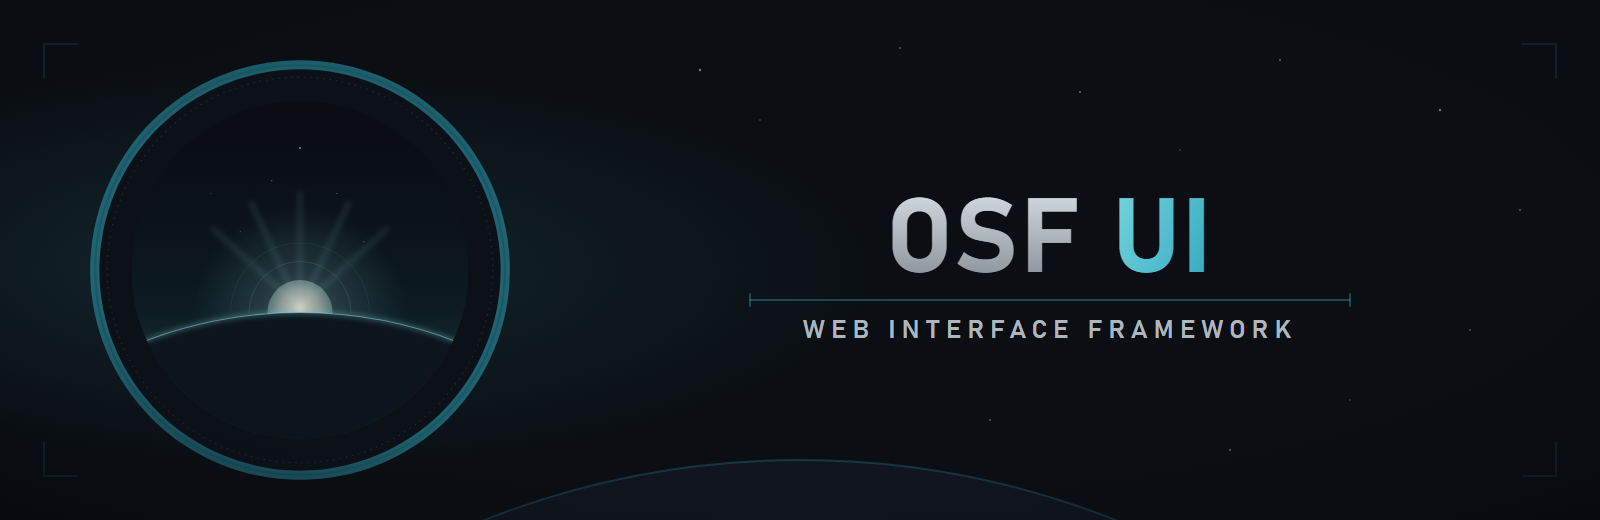
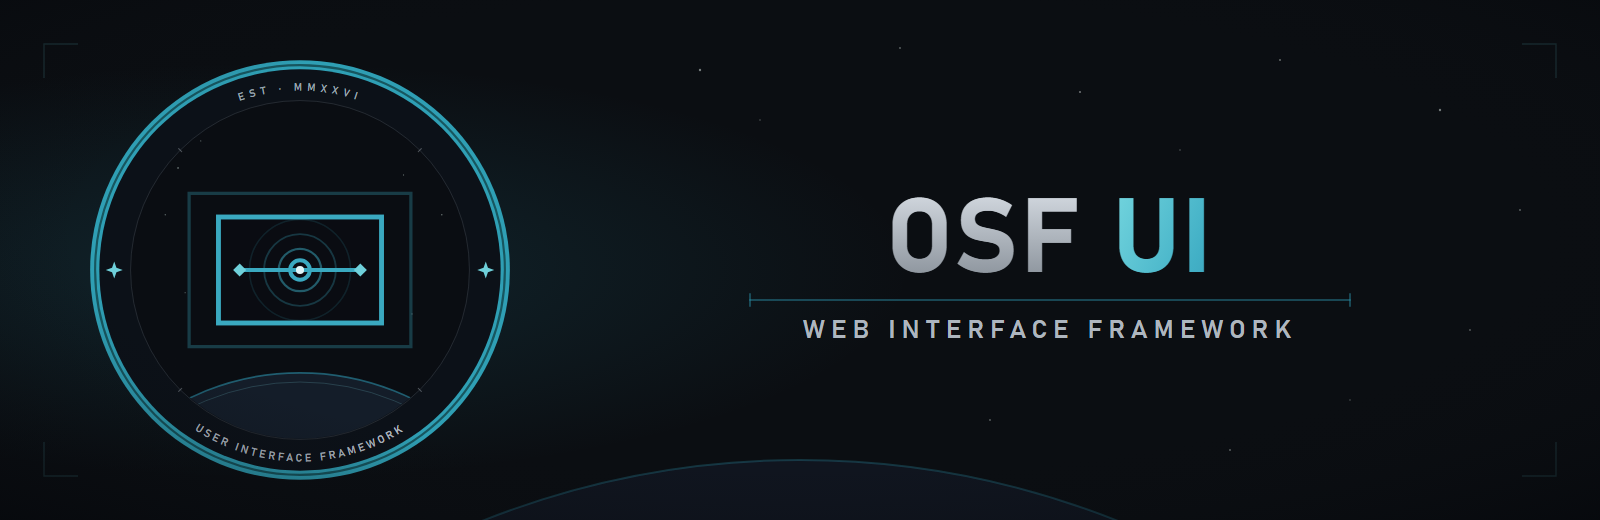
update branding

diff --git a/packaging/README.md b/packaging/README.md
@@ -5,14 +5,16 @@ material only** — the installable release archive is produced separately by
 [`tools/package.ps1`](../tools/package.ps1) (see [docs/PACKAGING.md](../docs/PACKAGING.md)).
 
 Same NASA-punk mission-patch family as **OSF Animation**, re-themed from that
-project's amber + playback-curve identity to OSF UI's **teal/cyan + floating
-web-UI-window** identity, so the two read as siblings.
+project's amber + playback-curve identity to OSF UI's **teal/cyan +
+nested-frame signal** identity (two concentric view frames around a ringed
+focus node), so the two read as siblings.
 
 ## Contents
 
 | File | Size | Use |
 |---|---|---|
 | `branding/osf-ui-patch.{svg,png}` | 1024×1024 | **Main / thumbnail image** on Nexus (the mission patch) |
+| `branding/osf-ui-patch-emblem.{svg,png}` | 1024×1024 | Patch variant, no wordmark, emblem centered — badge in the header, avatars |
 | `branding/osf-ui-header.{svg,png}` | 1600×520 | Banner at the top of the description (gallery image) |
 | `branding/osf-ui-emblem.{svg,png}` | 512×512 | Standalone mark, transparent — icons/avatars |
 | `section-headers/svg/*.svg` | 1300×130 | Section dividers used inside the description |
@@ -35,6 +37,7 @@ render(){ "$EDGE" --headless --disable-gpu --force-device-scale-factor=1 \
   --screenshot="$(pwd -W)/$2" "$(pwd -W)/$1"; }
 
 render branding/osf-ui-patch.svg   branding/osf-ui-patch.png   1024,1024
+render branding/osf-ui-patch-emblem.svg branding/osf-ui-patch-emblem.png 1024,1024
 render branding/osf-ui-header.svg  branding/osf-ui-header.png  1600,520
 render branding/osf-ui-emblem.svg  branding/osf-ui-emblem.png  512,512
 for f in 01-overview 02-features 03-get-started 04-for-authors 05-credits; do